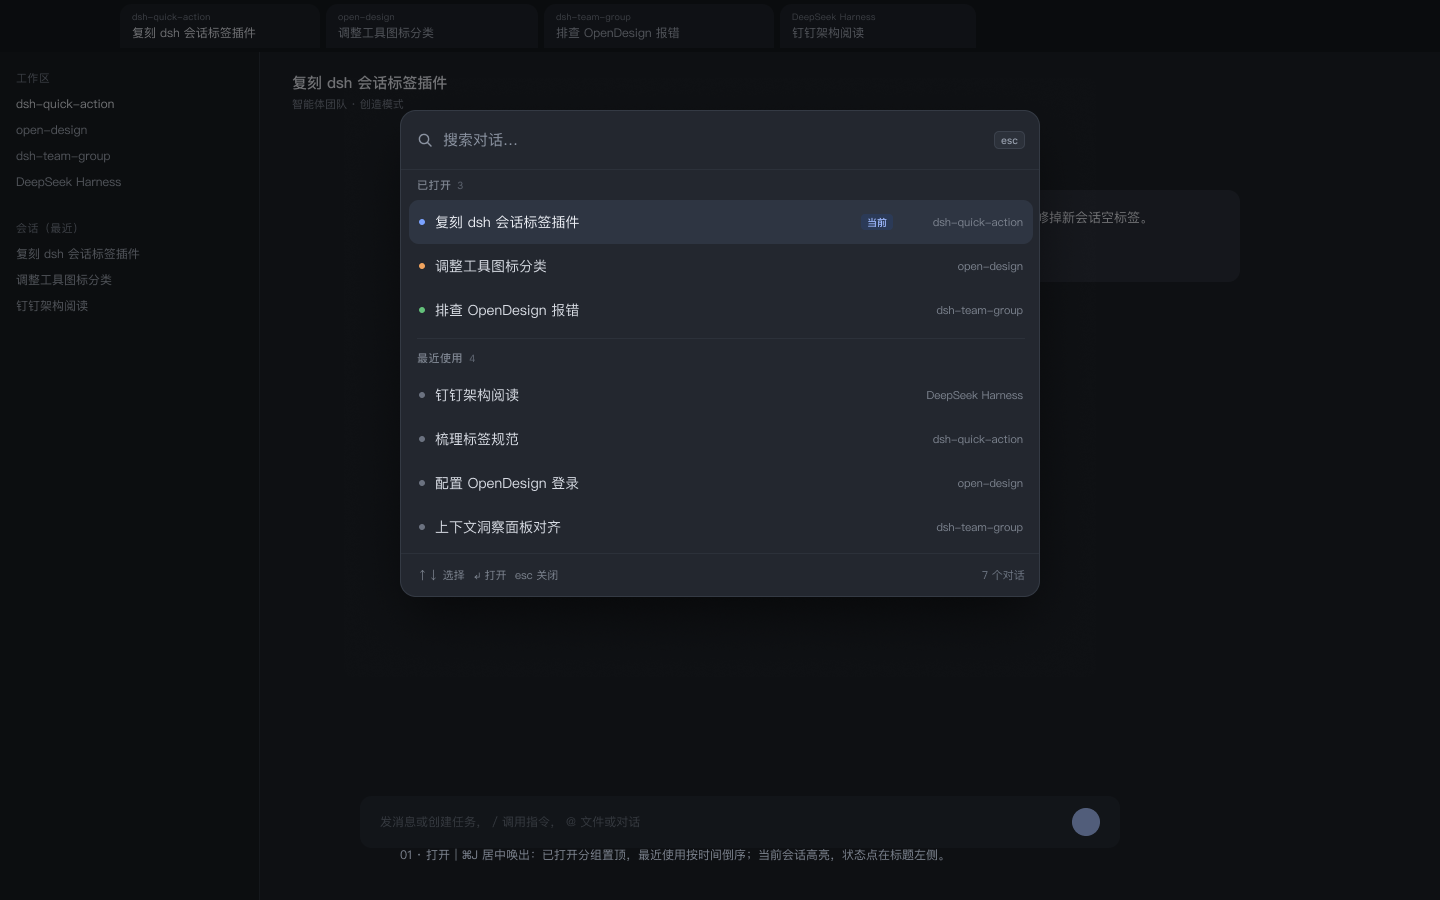
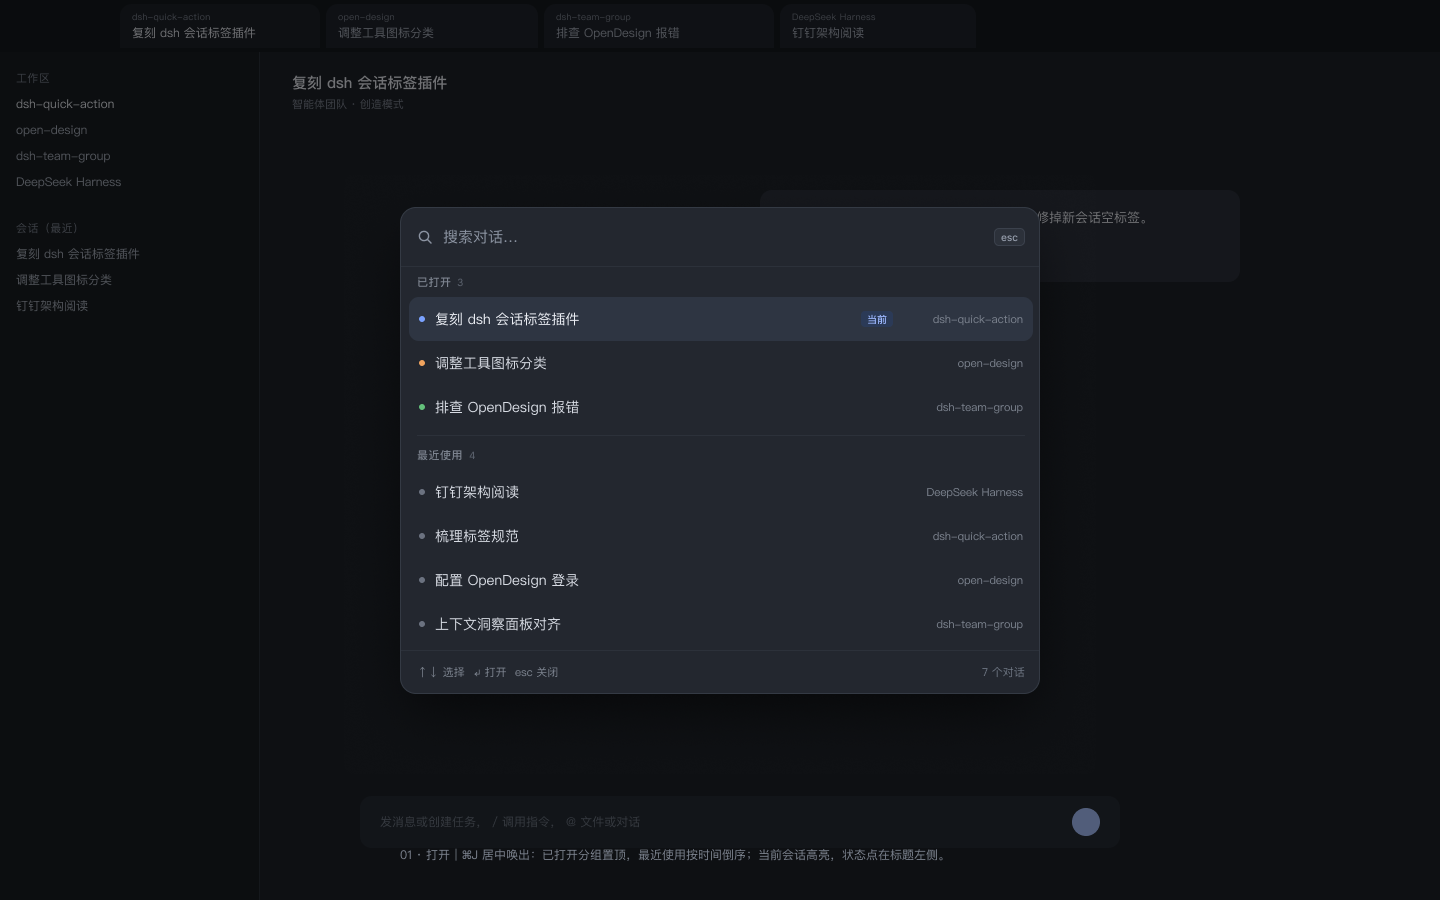
fix: center the session switcher vertically
- replace the 11vh top offset with centered flex plus 24px viewport padding
- keep max-height min(72vh, 560px) and scrolling for long lists
- sync Figma boards 01-03 and prototype screenshots

diff --git a/lib/client.js b/lib/client.js
@@ -142,7 +142,7 @@ html[data-qa-hide-header] [data-slot=main] div:has(> header[data-window-drag]):h
 .qa-awake[data-on=true]:hover{background:color-mix(in srgb,var(--dsw-alias-state-business-primary) 12%,transparent);color:var(--dsw-alias-state-business-primary)}
 .qa-awake[data-unsupported=true]{opacity:.45;cursor:default}
 /* ---------- 会话快速切换器（⌘J） ---------- */
-.qa-switcher{position:fixed;inset:0;z-index:9999;display:flex;align-items:flex-start;justify-content:center;box-sizing:border-box;padding:11vh 24px 24px;background:rgba(0,0,0,.52);opacity:0;transition:opacity .12s ease-out;-webkit-app-region:no-drag;color:var(--dsw-alias-label-primary);font-family:inherit;font-size:14px;line-height:20px}
+.qa-switcher{position:fixed;inset:0;z-index:9999;display:flex;align-items:center;justify-content:center;box-sizing:border-box;padding:24px;background:rgba(0,0,0,.52);opacity:0;transition:opacity .12s ease-out;-webkit-app-region:no-drag;color:var(--dsw-alias-label-primary);font-family:inherit;font-size:14px;line-height:20px}
 .qa-switcher[hidden]{display:none!important}
 .qa-switcher[data-open=true]{opacity:1}
 .qa-switcher-panel{box-sizing:border-box;width:640px;max-width:100%;max-height:min(72vh,560px);display:flex;flex-direction:column;overflow:hidden;background:color-mix(in srgb,var(--dsw-alias-label-primary) 4%,var(--dsw-alias-bg-base));border:1px solid var(--dsw-alias-border-l3);border-radius:16px;box-shadow:0 24px 64px rgba(0,0,0,.55);opacity:0;transform:translateY(8px) scale(.98);transition:opacity .2s ease-out,transform .2s cubic-bezier(.2,.8,.2,1)}

diff --git a/docs/figma/README.md b/docs/figma/README.md
@@ -41,7 +41,7 @@
 
 ### 关键规格
 
-- 面板：640 宽，顶部 110（垂直略偏上），圆角 16，1px 边框，drop shadow；搜索行 58、分组标题 30、行 44、footer 42。
+- 面板：640 宽，视口垂直居中（四周 24 内边距），圆角 16，1px 边框，drop shadow；搜索行 58、分组标题 30、行 44、footer 42。
 - 颜色：面板 `#23272F`、背景 `#1E2127`、选中 `#2E3542`、主文本 `#E9ECF2`、次文本 `#A9B0BC`、三级 `#7C838F`、主色 `#7AA2FF`、遮罩 `rgba(0,0,0,.52)`。实际实现全部换成宿主 token（`--dsw-alias-*`），不写死颜色。
 - 状态点：运行 `#7AA2FF`、待审批 `#F0A35E`、未读 `#63C07A`、空闲 `#6B7280`。
 - 快捷键：desktop `⌘J`，web `⌥⌘J`；注册进宿主快捷键表，可在「设置 › 快捷键」改键；冲突提示由宿主快捷键服务负责。
